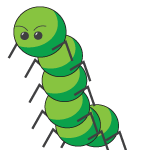
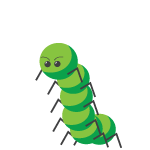
Updated monster art,  added Fox monster

Changed region(s): [[0.0533, 0.0267, 0.8533, 1.0]]

diff --git a/Classes/Helpers/CoreDataHelper.m b/Classes/Helpers/CoreDataHelper.m
@@ -371,6 +371,33 @@
     
     [monster setIsTranslucent:NO];
     //--------------------------------------------------------------------
+    
+    //--------------------------------------------------------------------
+    //Fox
+    monster = [DefaultMonsterData insertDefaultMonsterAttributesForType:@"Fox"];
+    [monster setElementType:Fire];
+    [monster setProbability:common];
+    
+    [monster setHealthPoints:19];
+    [monster setAbilityPoints:22];
+    [monster setCourage:10];
+    [monster setDefense:9];
+    [monster setIntellect:13];
+    [monster setSpeed:12];
+    [monster setStrength:8];
+    [monster setWillpower:10];
+    
+    [monster setHealthPointsLevelMultiplier:1.9];
+    [monster setAbilityPointsLevelMultiplier:2.2];
+    [monster setCourageLevelMultiplier:1.0];
+    [monster setDefenseLevelMultiplier:0.9];
+    [monster setIntellectLevelMultiplier:1.3];
+    [monster setSpeedLevelMultiplier:1.2];
+    [monster setStrengthLevelMultiplier:0.8];
+    [monster setWillpowerLevelMultiplier:1.0];
+    
+    [monster setIsTranslucent:NO];
+    //--------------------------------------------------------------------
 
     
     //--------------------------------------------------------------------
@@ -455,6 +482,8 @@
     [monster setStrengthLevelMultiplier:0.8];
     [monster setWillpowerLevelMultiplier:1.1];
     
+    [monster setIsTranslucent:YES];
+    
     //--------------------------------------------------------------------
     //Wisp
     monster = [DefaultMonsterData insertDefaultMonsterAttributesForType:@"Wisp"];
@@ -479,7 +508,7 @@
     [monster setStrengthLevelMultiplier:0.8];
     [monster setWillpowerLevelMultiplier:1.1];
     
-    [monster setIsTranslucent:NO];
+    [monster setIsTranslucent:YES];
     //--------------------------------------------------------------------
     
     //--------------------------------------------------------------------
@@ -632,6 +661,7 @@
     [MonsterData insertMonsterWithType:@"Small_Blob" barcode:@"No Barcode"];
     [MonsterData insertMonsterWithType:@"Viper" barcode:@"No Barcode"];
     [MonsterData insertMonsterWithType:@"Bear_Cub" barcode:@"No Barcode"];
+    [MonsterData insertMonsterWithType:@"Fox" barcode:@"No Barcode"];
     
     NSError *error = nil; 
     [_managedObjectContext save:&error];
@@ -680,12 +710,12 @@
     [PartyData removeAll];
     
     NSArray *monsters = @[[MonsterData anyMonsterWithName:@"Baby Dragon"],
-                          [MonsterData anyMonsterWithName:@"Viper"],
+                          [MonsterData anyMonsterWithName:@"Fox"],
                           [MonsterData anyMonsterWithName:@"Skeleton"]];
     
     [PartyData insertPartyWithName:@"Player Party" monsters:monsters];
     
-    monsters = @[[MonsterData anyMonsterWithName:@"Wisp"],
+    monsters = @[[MonsterData anyMonsterWithName:@"Fox"],
                  [MonsterData anyMonsterWithName:@"Scorpion"],
                  [MonsterData anyMonsterWithName:@"Crab"]];
     

diff --git a/Classes/Layers/Combat Layer/CombatMonsterNode.m b/Classes/Layers/Combat Layer/CombatMonsterNode.m
@@ -18,7 +18,7 @@
     {
         float yBarBorderOffset = -40.0;
         float yBarSpacing = -5.5;
-        self->yShadowOffset = -37.5;
+        self->yShadowOffset = -33;
         
         self.monsterData = data;
         self->partyNumber = partyNum;
@@ -29,7 +29,10 @@
         self->shadowSprite = [CCSprite spriteWithFile:@"MonsterShadow.png"];
         self->shadowSprite.position = ccp(0, yShadowOffset);
         if (self.monsterData.isTranslucent)
+            self->shadowSprite.opacity = 90;
+        else
             self->shadowSprite.opacity = 150;
+        self->shadowSprite.scale = 1.1f;
         [self addChild:self->shadowSprite];
         
         //Draw the monster sprite
@@ -37,7 +40,7 @@
         if (self->partyNumber == 1)
             self->monsterSprite.scaleX *= -1;
         if (self.monsterData.isTranslucent)
-            self->monsterSprite.opacity = 150;
+            self->monsterSprite.opacity = 200;
         [self addChild:self->monsterSprite];
         
         //Draw the health bar
